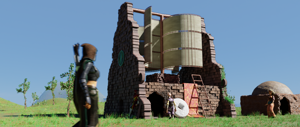
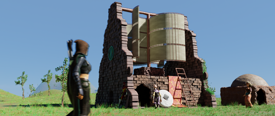
Make recent render webp

diff --git a/themes/sp-minimal/layouts/partials/header.html b/themes/sp-minimal/layouts/partials/header.html
@@ -35,7 +35,11 @@
   <div class="recent-render-container">
     <h2 class="recent-title">Recent Render</h2>
     <a href="{{ $.Site.BaseURL }}/renders">
-      <img class="recent-render" async src="{{ $.Site.BaseURL }}img/recent-render.png" width="275px" alt="Recent render" />
+      <picture class="recent-render">
+        <source srcset='{{ $.Site.BaseURL }}img/recent-render.webp' type="image/webp">
+        <source srcset='{{ $.Site.BaseURL }}img/recent-render.png' type="image/png"> 
+        <img class="image inner" src='{{ $.Site.BaseURL }}img/recent-render.png' alt='Recent Render' width='275px'>
+    </picture>
     </a>
   </div>
   

diff --git a/SetLatestRender/Program.cs b/SetLatestRender/Program.cs
@@ -11,7 +11,8 @@ using System.Threading.Tasks;
 //var renders = "../../../../Content/Renders/index.md";
 
 var renders = "../Content/Renders/index.md";
-var destination = "../static/img/recent-render.png";
+var destinationName = "../static/img/recent-render";
+var destination = $"{destinationName}.png";
 
 var latestRenderPath = File.ReadAllLines(renders)
     .First(x => x.StartsWith("{{< image") || x.StartsWith("{{< video"))
@@ -21,9 +22,12 @@ var latestImage = "../Content/Renders/" + latestRenderPath + ".png";
 var latestVideo = "../Content/Renders/" + latestRenderPath + "_VP9.webm";
 
 if (File.Exists(latestImage)) {
-    Process.Start("ffmpeg", $"-i {latestImage} -y -vf scale=300:-1 {destination}");
+    await Process.Start("ffmpeg", $"-i {latestImage} -y -vf scale=275:-1 {destination}").WaitForExitAsync();
 } else if (File.Exists(latestVideo)) {
-    Process.Start("ffmpeg", $"-i {latestVideo} -y -vframes 1 -vf scale=300:-1 {destination}");
+    await Process.Start("ffmpeg", $"-i {latestVideo} -y -vframes 1 -vf scale=275:-1 {destination}").WaitForExitAsync();
 }
+
+// Convert to webp as well
+await Process.Start(@"../NewAssetOptimiser/Webp/cwebp.exe", $"-q 90 {destination} -o {destinationName}.webp").WaitForExitAsync();
 
 Console.WriteLine("Latest Render = " + latestRenderPath);
